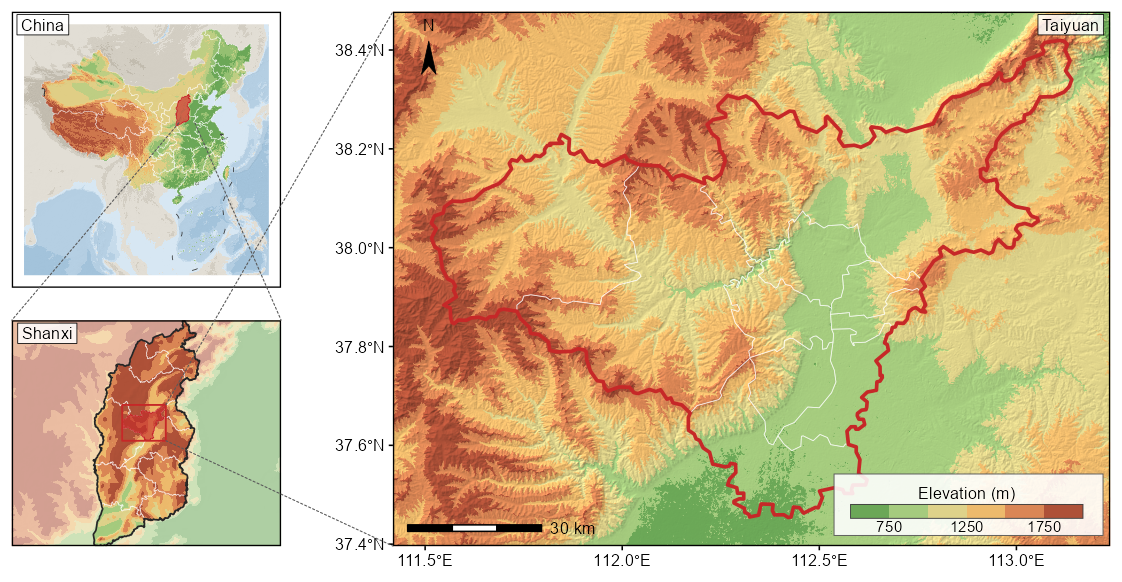
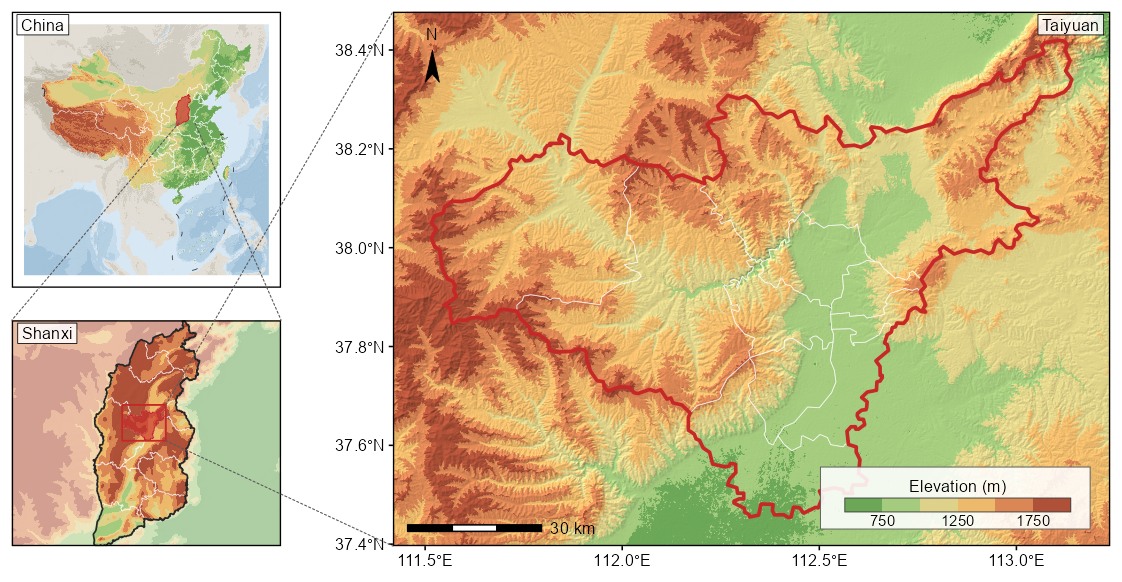
图廓件离框留出安全边距，并写进规则；README 补上定位说明
图廓件压到图框在 8 pt 下会与框线并成一条粗断线，读者分不出哪条是图廓。新增
FRAME_PAD（面板宽高的 2.5%）与 assert_inside()，legend_backing()、elev_legend()、
north_needle() 的默认位置全部内收并自检。这条断言当场逮住了新默认值里 0.977 越界
0.002 的问题，说明它有用。

README 增加「做到哪一步」一节：这套东西给的是骨架不是成品，机械易错的部分由代码
固定，配色留白取舍需出图后自行打磨；可调项都是显式单值，逐轮改比一次写对更快。
并列出代码会当场拦下的几类错误。

Changed region(s): [[0.7175, 0.7732, 0.9982, 0.9278], [0.3743, 0.0309, 0.4055, 0.1546]]

diff --git a/SKILL.md b/SKILL.md
@@ -315,6 +315,19 @@ tri <- data.frame(x = fx(c(ax, ax + w, ax, ax - w)),
 
 The same needle then has the same shape in a wide main panel and a tall locator panel.
 
+### Keep furniture clear of the frame
+
+Nothing drawn inside a panel may touch or cross the panel border. A legend box whose edge lands on the frame does not read as a tight fit; at 8 pt its own hairline and the frame merge into one thick, broken line, and the reader can no longer tell where the map ends. The same goes for north arrows, scale bars and panel labels.
+
+Leave a clearance of about 2.5% of panel width and height — `FRAME_PAD` in `relief_basemap.R`. The built-in blocks default to that and assert it, so a hand-moved legend fails loudly instead of shipping:
+
+```r
+assert_inside(c(0.598, 0.977), c(0.030, 0.148), what = "legend backing")
+# legend backing reaches the right frame (x 0.598-0.977, ...). Move it inward.
+```
+
+Express furniture positions as fractions of the window, never as absolute coordinates. Fractions survive a change of window or panel size; absolute positions silently drift off the panel the next time the extent is edited.
+
 ### Corner budget
 
 An elongated study area leaves exactly two usable corners, on the long axis's off-diagonal. Inventory them before placing anything: north arrow, scale bar, elevation ramp, symbol legend, panel tag. Group the furniture — arrow plus elevation ramp in one box, symbol legend in the other — instead of scattering four small boxes into four corners.
@@ -387,4 +400,5 @@ Two things still need explicit syncing because they are computed per figure:
 - A white casing under the accent-coloured boundary: at figure scale the casing blends into the line and it reads pink, not red, and no longer matches its own legend swatch
 - Two line styles on the map, one entry in the legend
 - Four separate furniture boxes in four corners of a panel that only has two free ones
+- A legend or arrow whose edge sits on the panel border
 - Letting a 5 km DEM be described as the study-area DEM
